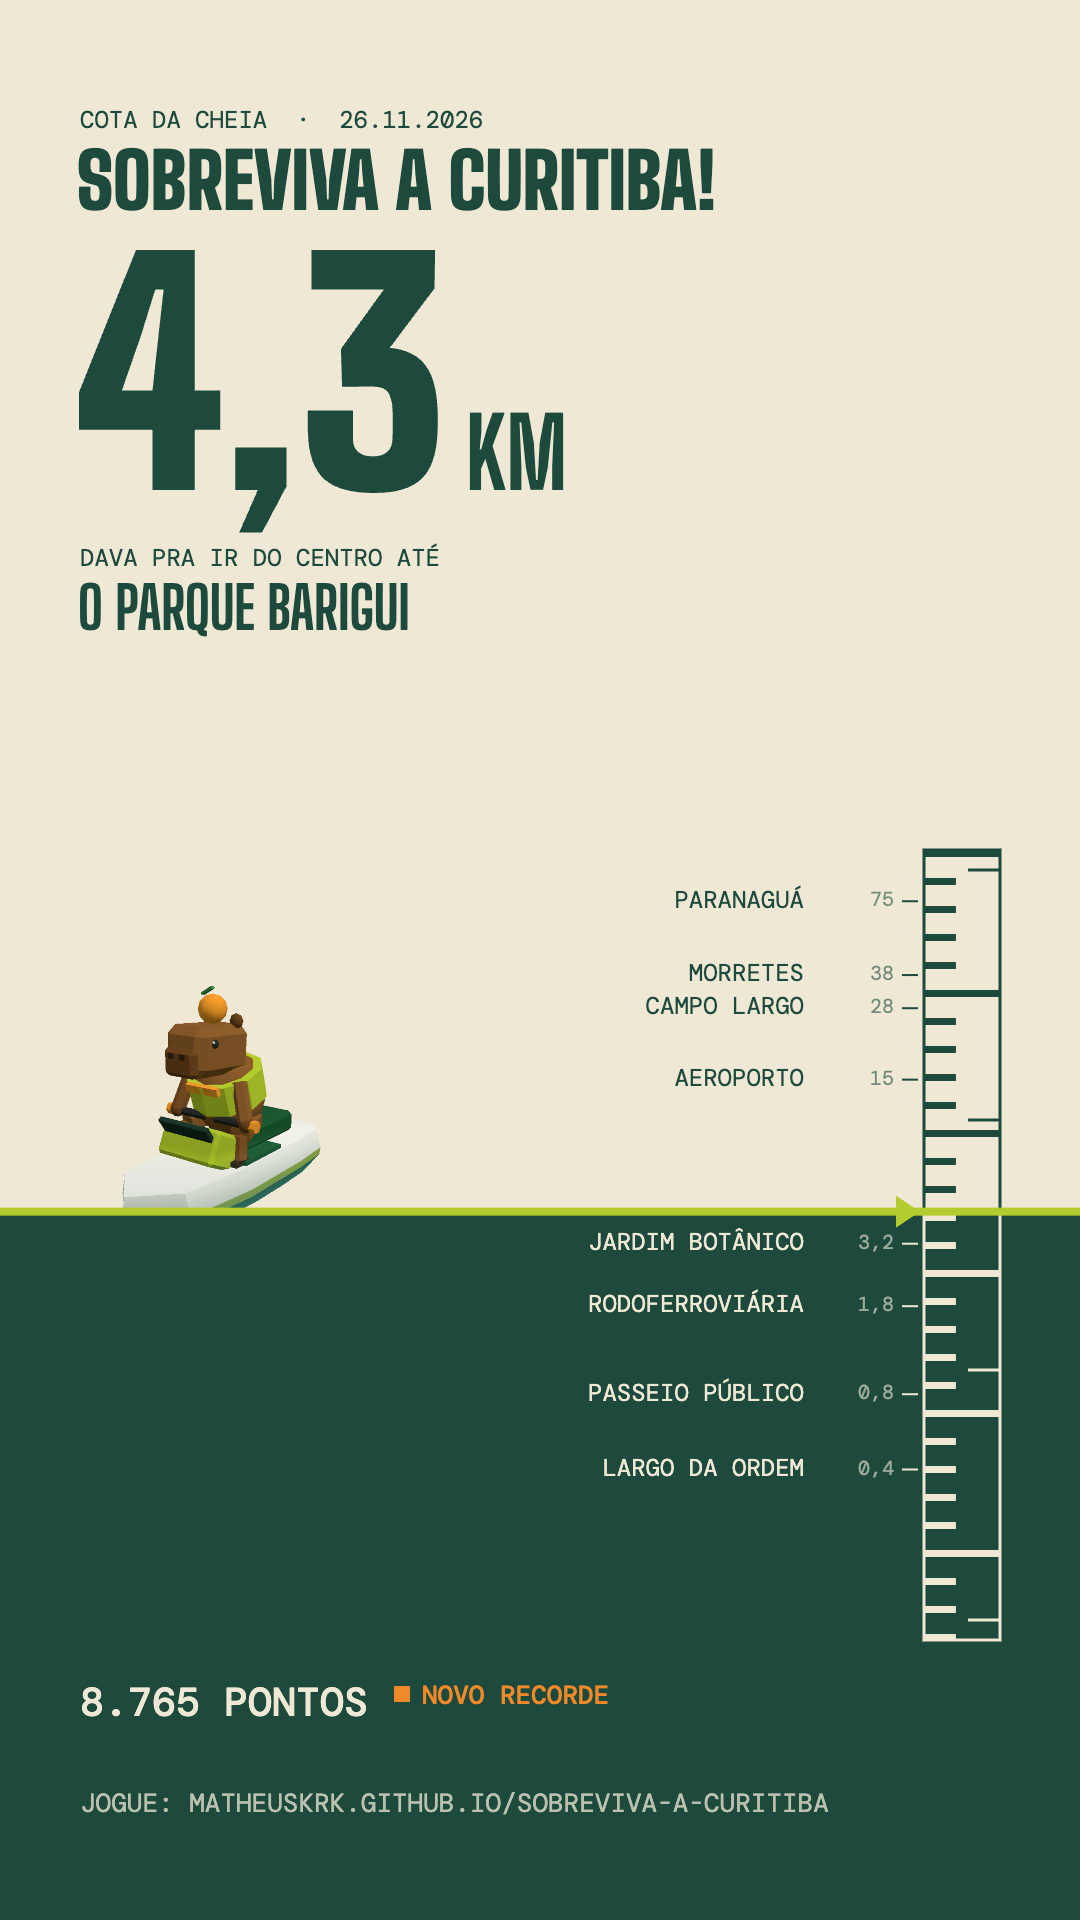
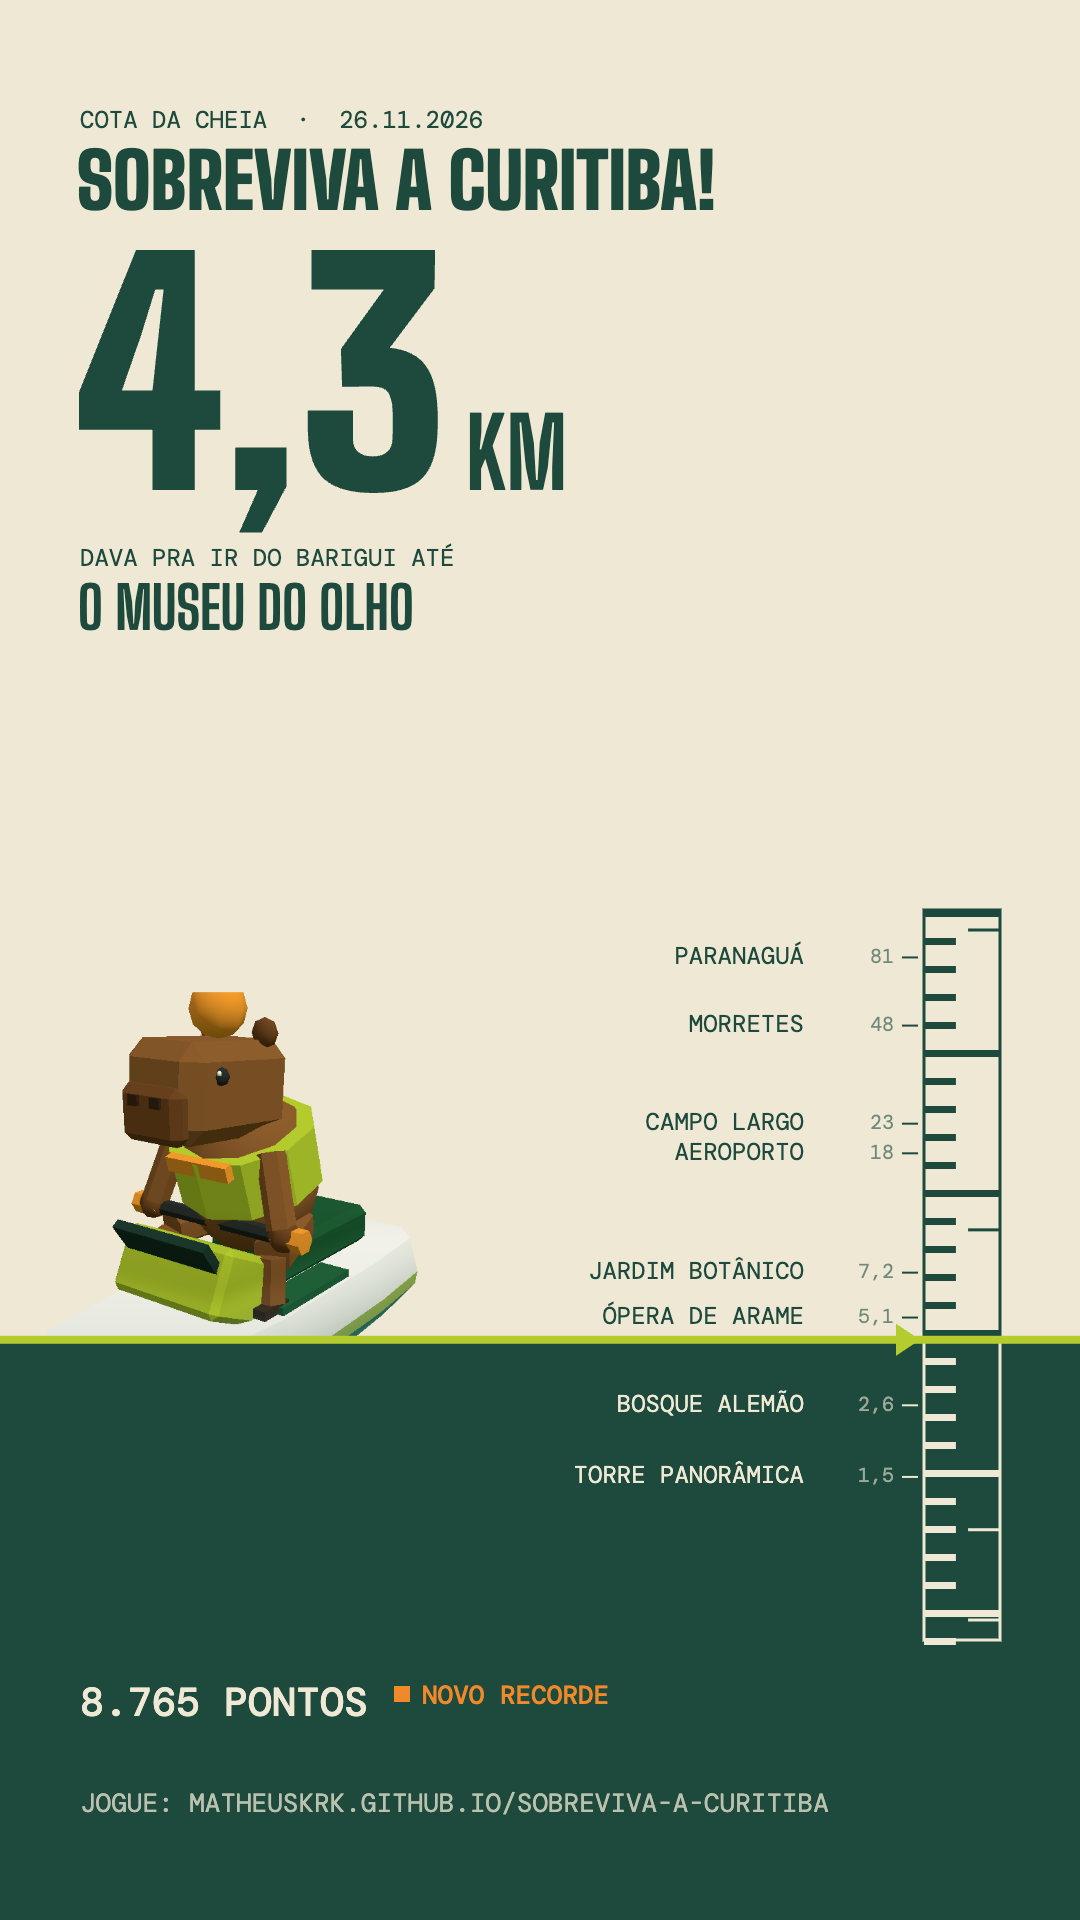
Card: capivara maior e distância contada a partir do Parque Barigui
- Destinos em linha reta saindo do Barigui (Torre Panorâmica 1,5 km ... Ponta Grossa 93 km)
- Régua de 0,5 a 100 km; capivara ~40% maior, encolhendo só quando a água chega perto do título

Changed region(s): [[0.0, 0.4375, 1.0, 0.875], [0.1222, 0.2812, 0.4278, 0.3438], [0.7944, 0.5, 0.825, 0.5312]]

diff --git a/index.html b/index.html
@@ -2409,23 +2409,23 @@ function startRun() {
 }
 // ---------- card de fim de partida, para postar nos stories ----------
 const GAME_URL = 'https://matheuskrk.github.io/sobreviva-a-curitiba/';
-// aonde daria para ir do centro (Praça Tiradentes) com a distância percorrida, em linha reta e aproximado
+// aonde daria para ir saindo do Parque Barigui (de onde a capivara fugiu), em linha reta e aproximado
 const DESTINOS = [
-  [0.4, 'o Largo da Ordem'], [0.8, 'o Passeio Público'], [1.8, 'a Rodoferroviária'], [3.2, 'o Jardim Botânico'],
-  [3.9, 'o Parque Barigui'], [5.0, 'a Ópera de Arame'], [5.7, 'o Parque Tanguá'], [6.5, 'Santa Felicidade'],
-  [14.5, 'o Aeroporto Afonso Pena'], [28, 'Campo Largo'], [38, 'Morretes'], [75, 'Paranaguá'],
+  [1.5, 'a Torre Panorâmica'], [1.9, 'o Shopping Barigui'], [2.6, 'o Bosque Alemão'], [3.0, 'Santa Felicidade'],
+  [3.7, 'a Rua XV, no centro'], [4.2, 'o Museu do Olho'], [5.1, 'a Ópera de Arame'], [5.5, 'o Parque Tanguá'],
+  [7.2, 'o Jardim Botânico'], [18, 'o Aeroporto Afonso Pena'], [22.6, 'Campo Largo'], [48, 'Morretes'], [81, 'Paranaguá'], [93, 'Ponta Grossa'],
 ];
 function destinoPara(km) {
   let d = null; for (const x of DESTINOS) if (km >= x[0]) d = x;
-  return d ? `Dava pra ir do centro até ${d[1]}!` : 'Nem saiu da Rua XV…';
+  return d ? `Dava pra ir do Barigui até ${d[1]}!` : 'Nem saiu do Barigui…';
 }
-function destinoNome(km) { let d = null; for (const x of DESTINOS) if (km >= x[0]) d = x; return d ? d[1] : 'a esquina da Rua XV'; }
+function destinoNome(km) { let d = null; for (const x of DESTINOS) if (km >= x[0]) d = x; return d ? d[1] : 'a outra margem do lago'; }
 // capivara no jet ski desenhada pelo próprio renderizador do jogo, com fundo transparente
 function heroShot(S = 640) {
   const rt = new THREE.WebGLRenderTarget(S, S); rt.texture.colorSpace = THREE.SRGBColorSpace;
   const sc = new THREE.Scene(); sc.add(new THREE.HemisphereLight(0xffffff, 0x99aa88, 1.6)); const dl = new THREE.DirectionalLight(0xffffff, 2); dl.position.set(3, 5, 4); sc.add(dl);
   const g = new THREE.Group(); g.add(new THREE.Mesh(GEO.jetski, VC), new THREE.Mesh(GEO.capivara, VC)); g.rotation.set(0.1, 2.5, 0); sc.add(g);
-  const cam = new THREE.PerspectiveCamera(30, 1, 0.1, 100); cam.position.set(0, 2.6, 7.4); cam.lookAt(0, 1.0, 0);
+  const cam = new THREE.PerspectiveCamera(30, 1, 0.1, 100); cam.position.set(0, 2.3, 5.4); cam.lookAt(0, 1.05, 0);
   const oc = renderer.getClearColor(new THREE.Color()), oa = renderer.getClearAlpha();
   renderer.setRenderTarget(rt); renderer.setClearColor(0x000000, 0); renderer.clear(); renderer.render(sc, cam);
   const px = new Uint8Array(S * S * 4); renderer.readRenderTargetPixels(rt, 0, 0, S, S, px);
@@ -2442,11 +2442,11 @@ async function makeCard(km, score, rec) {
   const PAPER = '#eee8d5', INK = '#1d4a3c', LIME = '#b5cc2e', ORANGE = '#f0892a';
   const nf = (v, d = 1) => v.toLocaleString('pt-BR', {minimumFractionDigits: d, maximumFractionDigits: d});
   // escala da régua
-  const Y0 = 1620, Y1 = 870, yOf = k => Y0 - (Math.log10(Math.min(100, Math.max(0.1, k)) / 0.1) / 3) * (Y0 - Y1);
+  const Y0 = 1620, Y1 = 930, yOf = k => Y0 - (Math.log10(Math.min(100, Math.max(0.5, k)) / 0.5) / Math.log10(200)) * (Y0 - Y1);
   const level = yOf(km);
   g.fillStyle = PAPER; g.fillRect(0, 0, W, H);
   // capivara no jet ski boiando na linha d'água (a água desenhada depois cobre o casco)
-  try { const S = 320, cy = level - S + 66; g.drawImage(heroShot(), M - 6, cy, S, S); } catch (e) {}
+  try { const S = Math.min(440, level + 92 - 668), cy = level - S + S * 0.21; g.drawImage(heroShot(), M - 40, cy, S, S); } catch (e) {} // menor só quando a água sobe até perto do título
   g.fillStyle = INK; g.fillRect(0, level, W, H - level);
   // tudo que pode ficar em cima ou embaixo d'água é desenhado duas vezes: tinta sobre o papel, papel sobre a água
   const dual = fn => {
@@ -2461,11 +2461,11 @@ async function makeCard(km, score, rec) {
     for (let y = Y1 - 20, k = 0; y < Y0 + 20; y += 14, k++) {
       if (k % 2 === 0) g.fillRect(GX, y, GW * (k % 10 === 0 ? 1 : 0.42), 7);
     }
-    for (const d of [0.1, 1, 10, 100]) { const y = yOf(d); g.fillRect(GX + GW * 0.58, y - 1.5, GW * 0.42, 3); }
+    for (const d of [0.5, 1, 10, 100]) { const y = yOf(d); g.fillRect(GX + GW * 0.58, y - 1.5, GW * 0.42, 3); }
   });
   // destinos marcados na régua (só os que não se atropelam)
-  const MARK = [[0.4, 'LARGO DA ORDEM'], [0.8, 'PASSEIO PÚBLICO'], [1.8, 'RODOFERROVIÁRIA'], [3.2, 'JARDIM BOTÂNICO'], [5.0, 'ÓPERA DE ARAME'],
-    [14.5, 'AEROPORTO'], [28, 'CAMPO LARGO'], [38, 'MORRETES'], [75, 'PARANAGUÁ']];
+  const MARK = [[1.5, 'TORRE PANORÂMICA'], [2.6, 'BOSQUE ALEMÃO'], [3.7, 'RUA XV'], [5.1, 'ÓPERA DE ARAME'], [7.2, 'JARDIM BOTÂNICO'],
+    [18, 'AEROPORTO'], [22.6, 'CAMPO LARGO'], [48, 'MORRETES'], [81, 'PARANAGUÁ']];
   dual(col => {
     g.fillStyle = col; g.textAlign = 'right'; g.textBaseline = 'middle';
     for (const [k, n] of MARK) {
@@ -2486,7 +2486,7 @@ async function makeCard(km, score, rec) {
     g.font = `900 76px ${BS}`; g.fillText('SOBREVIVA A CURITIBA!', M - 3, 210);
     g.font = `900 300px ${BS}`; const num = nf(km); g.fillText(num, M - 10, 490);
     const nw = g.measureText(num).width; g.font = `700 96px ${BS}`; g.fillText('KM', M + nw + 6, 490);
-    g.font = `400 24px ${MONO}`; g.fillText('DAVA PRA IR DO CENTRO ATÉ', M, 566);
+    g.font = `400 24px ${MONO}`; g.fillText('DAVA PRA IR DO BARIGUI ATÉ', M, 566);
     g.font = `700 58px ${BS}`; g.fillText(destinoNome(km).toUpperCase(), M - 2, 630);
   });
   // rodapé: pontos e link
